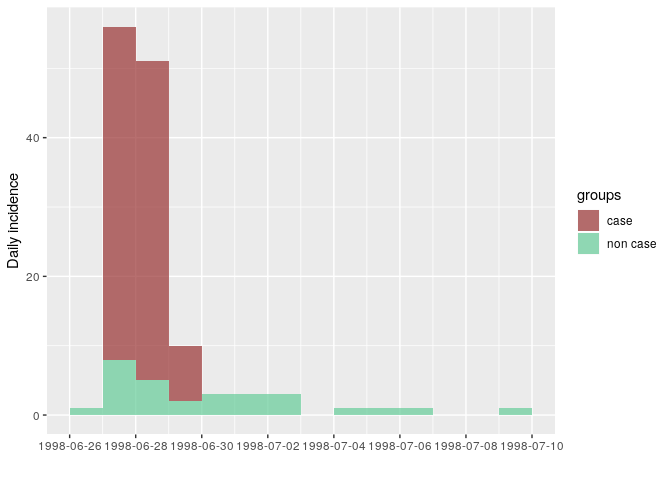
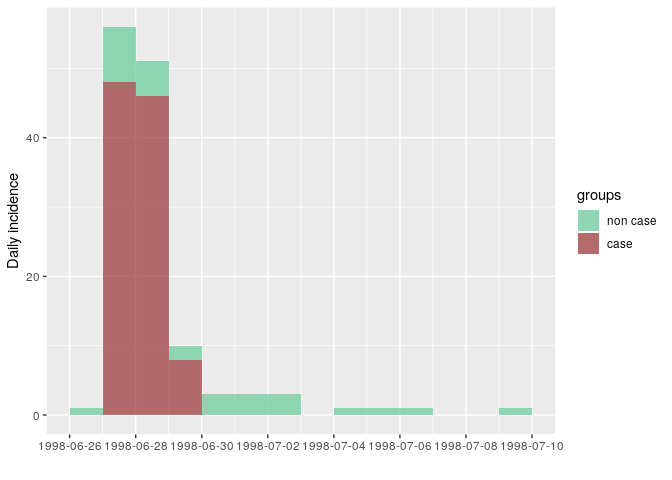
rerun with new version of incidence

diff --git a/content/post/practical-stegen.md b/content/post/practical-stegen.md
@@ -833,7 +833,7 @@ i_ill <- incidence(stegen$date_onset, group = stegen$ill)
 i_ill
 ## <incidence object>
 ## [131 cases from days 1998-06-26 to 1998-07-09]
-## [2 groups: case, non case]
+## [2 groups: non case, case]
 ## 
 ## $counts: matrix with 14 rows and 2 columns
 ## $n: 131 cases in total
@@ -842,21 +842,21 @@ i_ill
 ## $timespan: 14 days
 ## $cumulative: FALSE
 as.data.frame(i_ill)
-##         dates case non case
-## 1  1998-06-26    0        1
-## 2  1998-06-27   48        8
-## 3  1998-06-28   46        5
-## 4  1998-06-29    8        2
-## 5  1998-06-30    0        3
-## 6  1998-07-01    0        3
-## 7  1998-07-02    0        3
-## 8  1998-07-03    0        0
-## 9  1998-07-04    0        1
-## 10 1998-07-05    0        1
-## 11 1998-07-06    0        1
-## 12 1998-07-07    0        0
-## 13 1998-07-08    0        0
-## 14 1998-07-09    0        1
+##         dates non case case
+## 1  1998-06-26        1    0
+## 2  1998-06-27        8   48
+## 3  1998-06-28        5   46
+## 4  1998-06-29        2    8
+## 5  1998-06-30        3    0
+## 6  1998-07-01        3    0
+## 7  1998-07-02        3    0
+## 8  1998-07-03        0    0
+## 9  1998-07-04        1    0
+## 10 1998-07-05        1    0
+## 11 1998-07-06        1    0
+## 12 1998-07-07        0    0
+## 13 1998-07-08        0    0
+## 14 1998-07-09        1    0
 plot(i_ill, color = c("non case" = "#66cc99", "case" = "#993333"))
 ```
 
